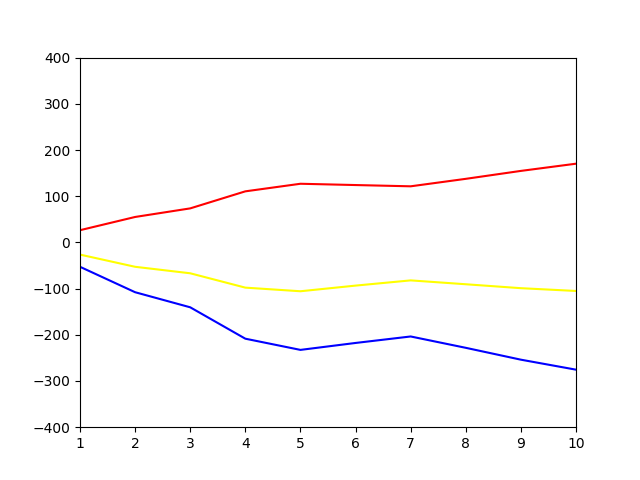
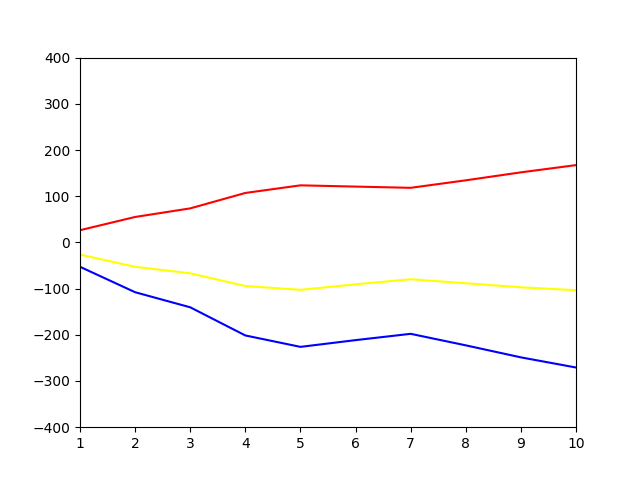
change sim10

diff --git a/sim10/sim10.py b/sim10/sim10.py
@@ -4,7 +4,7 @@ import random
 from turtle import color
 import pandas as pd
 import matplotlib.pyplot as plt
-road=1.1
+road=[1.1,1.1,1.1,1,1.1,1.1,1.1,1.1,1.1,1.1]
 wether=1
 day_length=10
 menu=['jog(4分59秒~4分)','jog(4分59秒~4分)','jog(4分59秒~4分)','ペース走','jog(~5分)','OFF','OFF','jog(~5分)','jog(~5分)','jog(4分59秒~4分)']
@@ -16,7 +16,7 @@ fig=[]
 fit=[]
 par=[]
 for i in range(day_length):
-  trimp.append(round(au[i]*distance[i]*road*wether,3))
+  trimp.append(round(au[i]*distance[i]*road[i]*wether,3))
 
 fig.append(trimp[0]*2)
 fit.append(trimp[0])
